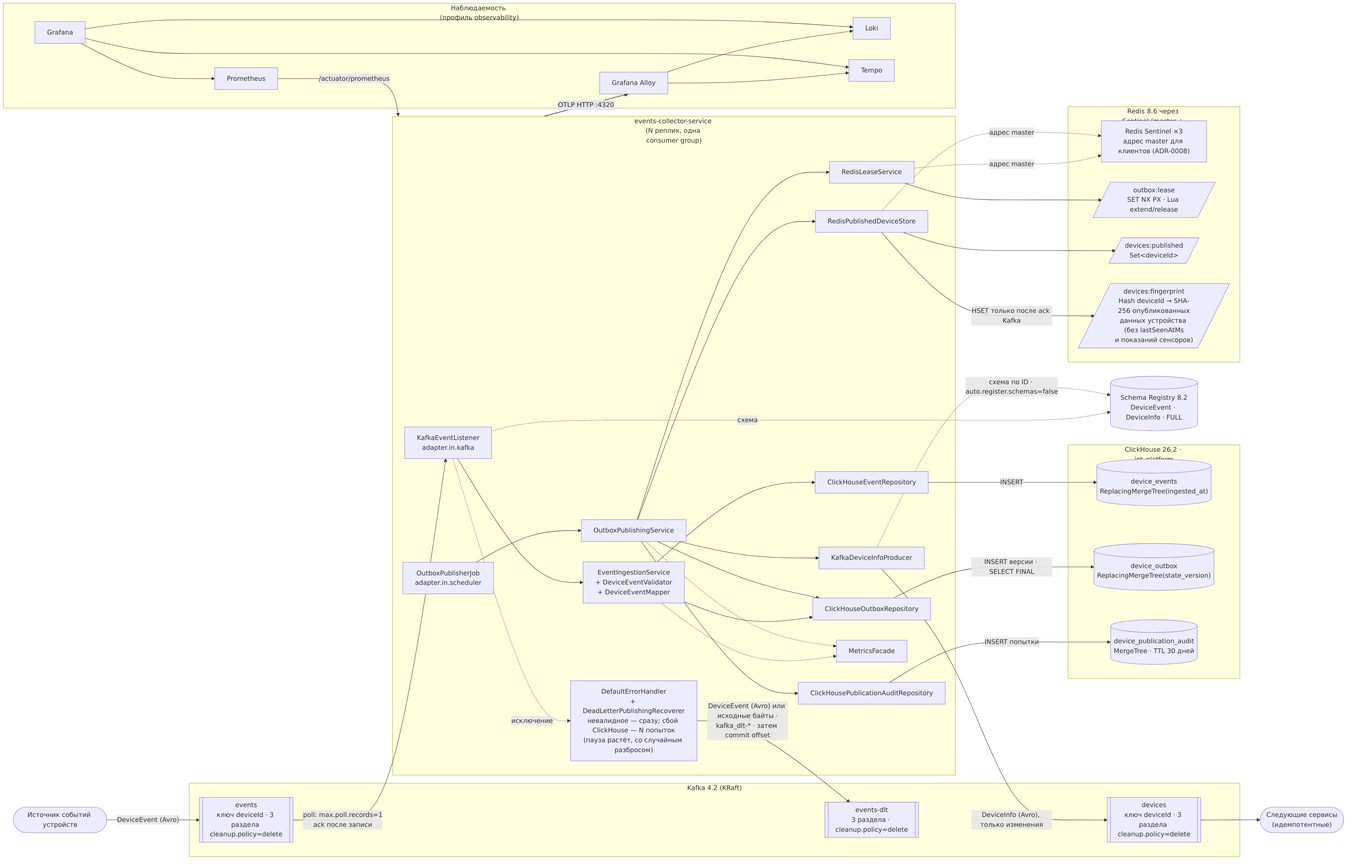
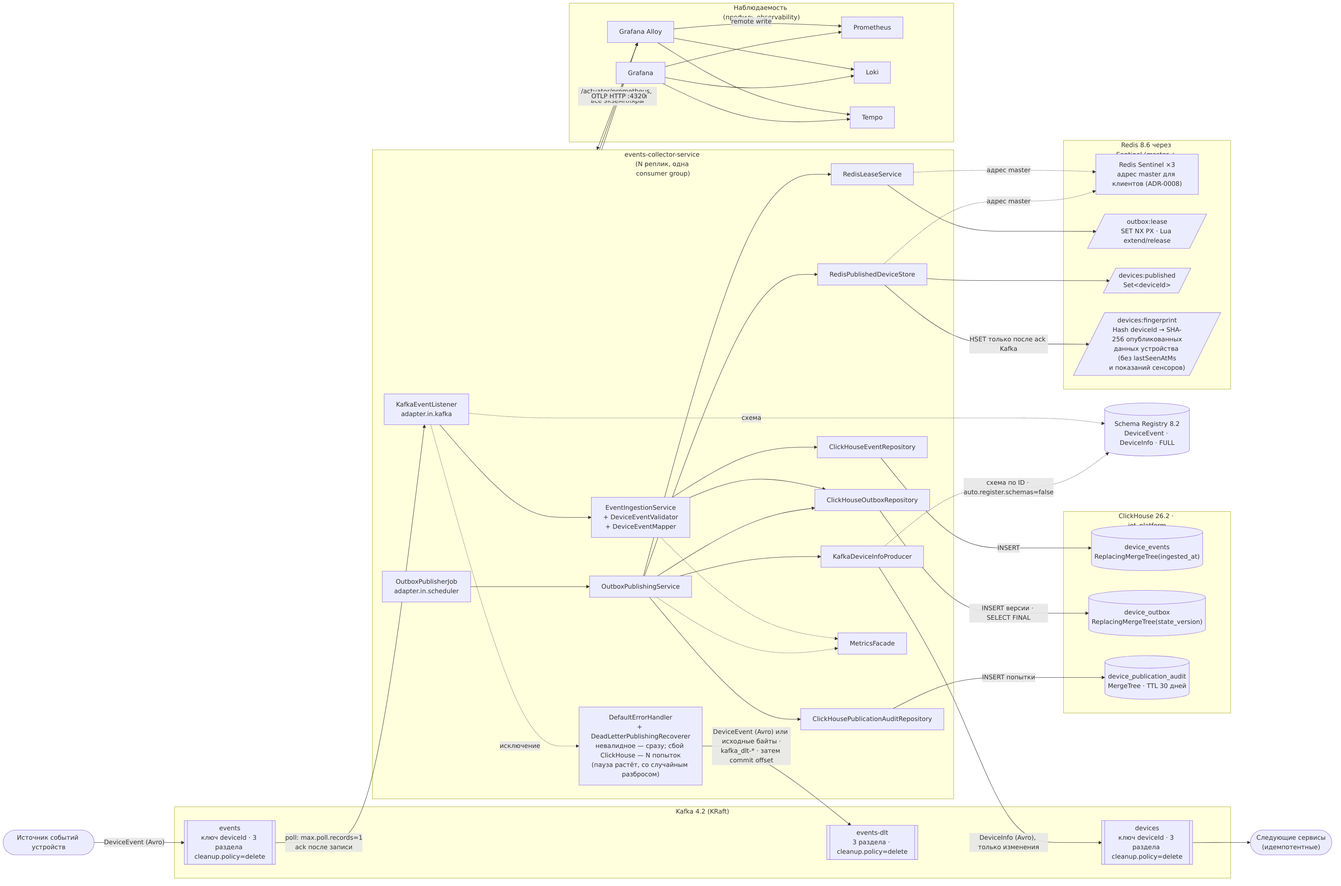
Наблюдаемость: метрики сервисов платформы собирает Alloy
- Alloy находит экземпляры events-collector-service, device-collector-service и device-service через DNS Docker,
  опрашивает /actuator/prometheus и передаёт метрики в Prometheus по remote write (ADR-0012)
- метки job и instance прежние, переименование outbox_candidate_total перенесено в правила Alloy,
  порт device-service берётся из DEVICE_SERVICE_MANAGEMENT_PORT
- Prometheus принимает remote write, задания трёх сервисов из prometheus.yml удалены,
  Alloy стартует после Prometheus
- диаграммы containers и компонентные перерисованы; README и DoD: путь метрик, где смотреть состояние сбора
- R17 проверено на стенде: up каждого экземпляра равен 1, запросы панелей без ошибок; Phase 16 в tasks.md закрыта

Changed region(s): [[0.0, 0.0, 0.9955, 0.9974], [0.4044, 0.561, 0.5288, 0.7169], [0.5288, 0.4675, 0.56, 0.4987]]

diff --git a/specs/001-device-service/research.md b/specs/001-device-service/research.md
@@ -23,7 +23,7 @@
 | R14 | Узел Redis при старте узнаёт роль у Sentinel (скрипт запуска), а не из командной строки: иначе перезапуск узла, ставшего основным, даёт ~36 с недоступности, а пересоздание контейнеров может потерять записи | Предположение: проблема наблюдалась на прототипе, решение не проверялось | T020 | роль в командной строке + правило эксплуатации: после переключения узлы Redis не пересоздавать |
 | R15 | Keycloak 26 по HTTP: `"sslRequired": "none"` в файле realm выключает требование HTTPS у `iot-platform`; у `master` и у realm, которые создают тесты, — тесты сами: `kcadm.sh update realms/master -s sslRequired=NONE` внутри контейнера (`execInContainer`, по `localhost` HTTPS не нужен) и поле `sslRequired` при создании realm. Причина ошибки ревью: `external` пропускает HTTP только с loopback и частных IPv4, а адрес, с которого Docker доставляет запрос с хоста в контейнер, от проекта не зависит — Docker Desktop со стеком `gvisor` может подставить публичный адрес ([docker/desktop-feedback#133](https://github.com/docker/desktop-feedback/issues/133)), VPN (100.64.0.0/10) и IPv6 ULA тоже не считаются частными ([keycloak#30678](https://github.com/keycloak/keycloak/issues/30678)) | Проверено 2026-11-19: Keycloak 26.0.8 на VPS — `kcadm` переводит `master` из `external` в `none`, значение переживает перезапуск; импорт своего `master-realm.json` заменяет master и ломает вход администратора (`Account is not fully set up`) — не годится; переменной сервера для `sslRequired` нет (`--help-all`); запрос из сети 100.64.77.0/24 — `403 HTTPS required`, как в ревью. На Mac (Docker Desktop 4.37.2, `gvisor`) 9 запросов с хоста пришли с `172.19.0.1` (шлюз сети) — `401`, ошибка там не воспроизводится. Тесты с правкой (T122): интеграционный тест читает `sslRequired` у `iot-platform`, `master` и созданного realm через Admin API — на прежнем коде падал (`external`), с правкой проходит (VPS, ItSecurityTest 13 тестов) | T122 | административный токен внутри контейнера (`kcadm.sh` / `curl` через `execInContainer`), тестовые пользователи и клиенты — в отдельном файле realm для тестов |
 | R16 | Раздел `devices`, появившийся у работающей группы (`auto-offset-reset: none`), можно начать читать с начала без перезапуска: обработчик ошибок контейнера Spring Kafka получает `NoOffsetForPartitionException` в потоке потребителя и вызывает `seekToBeginning` для разделов без смещения; `OffsetOutOfRangeException` по-прежнему останавливает обработчик. Новый раздел потребитель замечает при обновлении метаданных (`metadata.max.age.ms`, по умолчанию 5 мин) — срок задаётся переменной окружения | Не подтвердилось (2026-11-19, Spring Kafka 4.0.3, интеграционный тест на Testcontainers): `NoOffsetForPartitionException` приходит не в обработчик ошибок, а из `onPartitionsAssigned` — адаптер `@KafkaListener` (`MessagingMessageListenerAdapter`) реализует `ConsumerSeekAware`, поэтому Spring вызывает `consumer.position()` раньше нашего кода; контейнер считает ошибку фатальной («No offset and no reset policy») и останавливается (`ConsumerStoppedEvent`, причина `NO_OFFSET`), до обработчика ошибок она не доходит. Запасной вариант (перезапуск контейнера и Admin при старте) с одним экземпляром работает; на двух не сходится: Admin меняет смещения только у пустой группы и даёт `UnknownMemberIdException`, пока в ней есть другой участник, обработчик крутится в цикле перезапусков (3 минуты без результата). Заменён механизмом R18 | T127 | ограничение «один экземпляр» с перезапуском контейнера при `NO_OFFSET` и Admin при старте — не принято: при нескольких экземплярах не сходится |
-| R17 | Alloy (`discovery.*` → `prometheus.scrape` → `prometheus.remote_write`) передаёт в Prometheus метрики сервисов с прежними метками `job`/`instance` и рядом `up`; Prometheus принимает их с `--web.enable-remote-write-receiver`; запросы всех панелей Grafana возвращают данные без правок | Предположение | T135 | метки задать правилами `discovery.relabel`; при несовпадении — поправить запросы панелей отдельной задачей |
+| R17 | Alloy (`discovery.*` → `prometheus.scrape` → `prometheus.remote_write`) передаёт в Prometheus метрики сервисов с прежними метками `job`/`instance` и рядом `up`; Prometheus принимает их с `--web.enable-remote-write-receiver`; запросы всех панелей Grafana возвращают данные без правок | Проверено 2026-11-19 (T135, T137; стенд Mac, `PROFILES=observability`, Alloy v1.4.2, Prometheus v2.54.1 с `--web.enable-remote-write-receiver`): `up{job}` = 1 у каждого экземпляра (events-collector-service ×1, device-collector-service ×1, device-service ×2, порт 8081), метки `job`/`instance` прежние, `outbox_candidate_created_total` есть, `outbox_candidate_total` нет; в Targets и конфигурации Prometheus этих заданий нет; запросы панелей events-collector, device-collector, device-service — 0 ошибок, данные есть (пустые только панели без событий: 5xx/401/403 и окно 1 мин после паузы нагрузки; ряды самих метрик есть). Грабли: `sys.env` отдаёт строку, а `port` у `discovery.dns` — число (`encoding.from_json(sys.env(...))`); `scrape_timeout` по умолчанию 10 с больше интервала 5 с — задан 5 с. Проверка сделана сразу на рабочей конфигурации, а не на прототипе | T135 | метки задать правилами `discovery.relabel`; при несовпадении — поправить запросы панелей отдельной задачей |
 | R18 | Раздел без смещения у работающей группы читается с начала без перезапуска при любом числе экземпляров: `DefaultKafkaConsumerFactory.addPostProcessor(ConsumerPostProcessor)` отдаёт Spring обёртку `Consumer` (`java.lang.reflect.Proxy`), которая перехватывает только `position(...)` и `poll(...)`: `NoOffsetForPartitionException` → `seekToBeginning(e.partitions())` и один повтор вызова. Это выполняется в потоке потребителя для его разделов, поэтому другие участники группы не мешают. `OffsetOutOfRangeException` не перехватывается: обработчик по-прежнему останавливается, health `DOWN`. Новый раздел потребитель замечает при обновлении метаданных (`metadata.max.age.ms`, `DEVICES_CONSUMER_METADATA_MAX_AGE_MS`) | Проверено 2026-11-19 (T127, T128; Spring Kafka 4.0.3, Testcontainers): обёртка принята Spring и клиентом; один экземпляр — новый раздел применён за ~2 с, остановок `NO_OFFSET` нет, health `UP`; два экземпляра в одной группе — применён за ~6 с, оба обработчика работают, health `UP`, три прогона подряд зелёные; смещение вне диапазона по-прежнему останавливает обработчик, health `DOWN` | T127 | ограничение «один экземпляр» с прежним перезапуском (R16): при нескольких экземплярах сначала остановить все |
 
 ## Результаты проверок на стенде

diff --git a/README.md b/README.md
@@ -539,7 +539,7 @@ docker compose -f infrastructure/docker-compose.yaml up -d --scale events-collec
   `docker compose -f infrastructure/docker-compose.yaml up -d --scale device-collector-service=2 device-collector-service`.
 
 У обоих сервисов нет `container_name` и фиксированного хост-порта (диапазоны `EVENTS_COLLECTOR_PORTS` и
-`DEVICE_COLLECTOR_PORTS`), Prometheus находит реплики через DNS (`dns_sd_configs`), `instanceId` по умолчанию —
+`DEVICE_COLLECTOR_PORTS`), Alloy находит реплики через DNS Docker (`discovery.dns`) и собирает их метрики (раздел 16), `instanceId` по умолчанию —
 hostname контейнера.
 У остальных контейнеров стенда имена фиксированные (`iot-kafka`, `iot-clickhouse`, …).
 
@@ -761,7 +761,8 @@ Avro-классы приходят из `avros` и в отчёт не входя
 | Health | http://localhost:&lt;порт&gt;/actuator/health |
 | Метрики | http://localhost:&lt;порт&gt;/actuator/prometheus |
 | Grafana | http://localhost:3000 → папка «IoT Platform»: «events-collector-service», «device-collector-service», «device-service», «Proxy и шарды реестра устройств», «Kafka», «PostgreSQL» (платформенный) |
-| Prometheus | http://localhost:9090 → Status → Targets: jobs `events-collector-service`, `device-collector-service`, `device-service`, `shardingsphere-proxy`, `postgres-shards` (шарды и их реплики), `kafka` |
+| Prometheus | http://localhost:9090 → Status → Targets: jobs `shardingsphere-proxy`, `postgres-shards` (шарды и их реплики), `kafka` |
+| Alloy | http://localhost:12345 (`ALLOY_PORT`) → Graph / компоненты `prometheus.scrape.*`: состояние сбора метрик трёх сервисов (по экземплярам: health и последняя ошибка). Ряд `up{job="events-collector-service"\|"device-collector-service"\|"device-service"}` в Prometheus формирует Alloy; страница Targets этих заданий не показывает |
 | Loki | Grafana → Explore → Loki: `{service="events-collector-service"} \| json`, `{service="device-collector-service", shard="shard_0"} \| json` |
 | Tempo | Grafana → Explore → Tempo: `{name="events process"}` (приём), `{name="publish devices"}` (публикация), `{name="devices process"}` (device-collector-service) |
 | Kafka UI | http://localhost:8090 (профиль `tools`): темы, сообщения Avro как JSON, лаг consumer group, схемы |
@@ -782,9 +783,17 @@ Avro-классы приходят из `avros` и в отчёт не входя
 > **Про `outbox_candidate_created_total`.** Spring Boot 4 использует Prometheus Java client 1.x, который
 > запрещает имена метрик с суффиксом `_created` (он зарезервирован в OpenMetrics под время создания
 > счётчика). Поэтому `/actuator/prometheus` отдаёт этот счётчик как `outbox_candidate_total`, а требуемое
-> имя `outbox_candidate_created_total` восстанавливает `metric_relabel_configs` в
-> `infrastructure/config/prometheus/prometheus.yml`. В Prometheus и Grafana метрика называется так, как
+> имя `outbox_candidate_created_total` восстанавливает правило `prometheus.relabel` в
+> `infrastructure/config/alloy/config.alloy`. В Prometheus и Grafana метрика называется так, как
 > требует задание. Остальные шесть имён совпадают уже в `/actuator/prometheus` (проверяет `MetricsFacadeTest`).
+
+**Путь метрик сервисов платформы (ADR-0012).** events-collector-service, device-collector-service и device-service (все
+экземпляры) собирает Alloy: находит экземпляры через DNS Docker, опрашивает `/actuator/prometheus` каждые 5 с и передаёт
+метрики в Prometheus по remote write (Prometheus запущен с `--web.enable-remote-write-receiver`, Alloy стартует после него).
+Метки прежние: `job` — имя сервиса, `instance` — адрес экземпляра; запросы панелей не менялись. Экспортёры, Proxy,
+Keycloak, MinIO и компоненты наблюдаемости Prometheus по-прежнему опрашивает сам. Alloy остановлен — пропадают метрики
+сервисов, логи и трассы; новых переменных нет (`DEVICE_SERVICE_MANAGEMENT_PORT` и `ALLOY_PORT` уже были; первая теперь
+передаётся и Alloy).
 
 **Метрики device-collector-service** (`/actuator/prometheus`, job `device-collector-service`): сообщения —
 `devices_messages_received_total`, `devices_messages_processed_total` (метка `outcome`: применено, устаревшее),
@@ -793,8 +802,8 @@ Avro-классы приходят из `avros` и в отчёт не входя
 `shard`; ошибки — `devices_processing_errors_total`, `devices_shard_route_fail_total`; а также стандартные JVM,
 HikariCP (`sharding-proxy`) и лаг consumer group из kafka-exporter.
 
-**Метрики device-service** (job `device-service`, конфигурация — `infrastructure/config/prometheus/prometheus.yml`, дашборд «IoT Platform — device-service» — `infrastructure/config/grafana/dashboards/device-service.json`):
-Prometheus забирает management-порт 8081 внутри сети Compose (`DEVICE_SERVICE_MANAGEMENT_PORT`); порт на хост не публикуется,
+**Метрики device-service** (job `device-service`, сбор — `infrastructure/config/alloy/config.alloy`, дашборд «IoT Platform — device-service» — `infrastructure/config/grafana/dashboards/device-service.json`):
+Alloy забирает management-порт 8081 внутри сети Compose (`DEVICE_SERVICE_MANAGEMENT_PORT`, передаётся в Alloy через `sys.env`); порт на хост не публикуется,
 а основной порт не отдаёт `/actuator` (раздел 22.1). Метрики: `device_commands_*` (команды: принято, отклонено, время публикации в Kafka)
 и `device_cache_*` (исходы чтения, доля попаданий), HTTP-метрики Spring; в метках нет `deviceId`.
 
@@ -1281,7 +1290,7 @@ curl -s -i -X DELETE "$API/dev-42" -H "Authorization: Bearer $TOKEN"
 | Переменные | Назначение | Где описано |
 |---|---|---|
 | `DEVICE_SERVICE_IMAGE_TAG`, `DEVICE_SERVICE_PORTS` | тег образа; диапазон портов хоста (два экземпляра) | `.env.example`; plan.md, «Переменные окружения» |
-| `DEVICE_SERVICE_MANAGEMENT_PORT` | management-порт (health, prometheus), не публикуется | `.env.example`; литерал в `infrastructure/config/prometheus/prometheus.yml` |
+| `DEVICE_SERVICE_MANAGEMENT_PORT` | management-порт (health, prometheus), не публикуется | `.env.example`; `infrastructure/config/alloy/config.alloy` (`sys.env`), healthcheck |
 | `DEVICE_COMMAND_SEND_TIMEOUT` | ожидание подтверждения Kafka при записи | `.env.example`; раздел 22.3 |
 | `SCHEMA_REGISTRY_HTTP_CONNECT_TIMEOUT_MS`, `SCHEMA_REGISTRY_HTTP_READ_TIMEOUT_MS`, `SCHEMA_REGISTRY_MAX_RETRIES` | клиент Schema Registry в device-service: соединение и чтение (мс), повторы (`1000`, `2000`, `0`) | `.env.example`; инвариант ниже |
 | `DEVICE_CACHE_TTL` | срок кэша карточки устройства в device-service | `.env.example`; раздел 19.3 |
@@ -1349,7 +1358,7 @@ curl -s -i -X DELETE "$API/dev-42" -H "Authorization: Bearer $TOKEN"
 | команда не видна в `GET` долго | `make logs S=device-collector-service`; `make dcs-quick-check` |
 | контейнер не `healthy` | `make logs S=device-service`; healthcheck — liveness на management-порту |
 
-Метрики: `device_commands_*` и `device_cache_*` (без `deviceId` в метках) — job `device-service` в Prometheus и дашборд «IoT Platform — device-service» (`infrastructure/config/grafana/dashboards/device-service.json`).
+Метрики: `device_commands_*` и `device_cache_*` (без `deviceId` в метках) — job `device-service` (собирает Alloy, ADR-0012) в Prometheus и дашборд «IoT Platform — device-service» (`infrastructure/config/grafana/dashboards/device-service.json`).
 
 Окружение платформы (C4, Postgres/Camunda/MinIO) описано в истории Git и в профиле `platform`.
 

diff --git a/specs/001-device-service/tasks.md b/specs/001-device-service/tasks.md
@@ -441,7 +441,7 @@ unit 87 / IT 42 (`check` с порогом покрытия), `make up`, `check-
 Текущий статус: Phase 15 — **Converged** (2026-11-19, проход 7); Phase 16 (метрики через Alloy) открыта, `converge` по ней — T140.
 До ревью реализации: **Converged** (2026-11-18, проход 6 после Phase 13 и Phase 14).
 Проходы 1–3 (2026-11-15/16) закончились `Converged`; статус снят ревью дизайна (17.11.2026) и проверкой реализации (18.11.2026).
-Статус снова снят ревью реализации (PR #5, 19.11.2026): открыты Phase 15 и Phase 16. Phase 15 закрыта проходом 7 (19.11.2026); открыта Phase 16 (метрики через Alloy).
+Статус снова снят ревью реализации (PR #5, 19.11.2026): открыты Phase 15 и Phase 16. Phase 15 закрыта проходом 7, Phase 16 (метрики через Alloy) — проходом 8 (19.11.2026).
 
 | Проход | Находки | Итог |
 |---|---|---|
@@ -452,6 +452,7 @@ unit 87 / IT 42 (`check` с порогом покрытия), `make up`, `check-
 | 5 | 3 аудита: 4 принятые находки (Phase 14, T116–T119: ADR-0006 о проверке `deviceId` коллектором, тестовый профиль, худший случай 503, формулировки исключения), 10 отклонено с причиной | исправлено |
 | 6 | проверка правок Phase 14 по коду и документам, `ItSchemaRegistryDownTest` на новом тестовом профиле | новых расхождений нет |
 | 7 | после Phase 15 (T122–T133), по изменённым местам: шесть замечаний ревью (SSL realm, ключи кэша, `null` в картах, раздел без перезапуска, предварительная проверка по кэшу; метрики через Alloy — Phase 16) сверены с кодом, тестами и документами; `grep` старых утверждений (`device:v1` в коде и действующих документах, «только по реплике», «без кэша», `LISTENER_RESTART`) пуст; новая переменная `DEVICES_CONSUMER_METADATA_MAX_AGE_MS` — в `.env.example`, Compose, `application.yaml`, `application-local.yaml`, `application-test.yaml`, README (разделы 19.3, 22.4), `plan.md`; в README и DoD обновлены числа тестов (найдено при проходе); аудиторы не привлекались | расхождений кроме чисел тестов нет; R16 не подтвердилось, принят R18 (решение человека, 19.11.2026) |
+| 8 | после Phase 16 (T135–T139), по изменённым местам: `grep` старых утверждений («Prometheus забирает/находит», `dns_sd_configs`, литерал порта в `prometheus.yml`) в README, DoD, диаграммах пуст; Alloy — все 8 компонентов сбора `healthy`; три задания удалены из `prometheus.yml`; панели и `up` — R17; аудиторы не привлекались | расхождений нет |
 
 Решения человека, зафиксированные при converge: 405/406/415 и неизвестный путь отдаются с кодом `VALIDATION_FAILED` (README 22.8, контракт не менялся);
 событие роутера `DELETE` без снимка для управляемого устройства — `IGNORED` (FR-015, строка 12); порог покрытия events-collector-service — 70 %;
@@ -636,25 +637,25 @@ Alloy — Phase 16, отдельным коммитом. Тест пишется
 events-collector-service, device-collector-service, device-service (все экземпляры). Экспортёры и сторонние
 компоненты Prometheus опрашивает сам, как раньше.
 
-- [ ] T135 (R17) Проверить на стенде с `PROFILES=observability` до переноса: Alloy (`prometheus.scrape` →
+- [X] T135 (R17) Проверить на стенде с `PROFILES=observability` до переноса: Alloy (`prometheus.scrape` →
   `prometheus.remote_write`) передаёт метрики одного сервиса в Prometheus с `--web.enable-remote-write-receiver`, метки
   `job`/`instance` и ряд `up` совпадают с прежними. Не подтвердилось — остановиться, запасной вариант из research.md
   (FR-023)
-- [ ] T136 Alloy: обнаружение экземпляров трёх сервисов, сбор `/actuator/prometheus` (у device-service — порт из
+- [X] T136 Alloy: обнаружение экземпляров трёх сервисов, сбор `/actuator/prometheus` (у device-service — порт из
   `DEVICE_SERVICE_MANAGEMENT_PORT` через `sys.env`; у events-collector-service и device-collector-service — порт
   контейнера 8080, как прежде в `prometheus.yml`), метки `job` = имя сервиса, переименование `outbox_candidate_total` →
   `outbox_candidate_created_total`, `prometheus.remote_write` в Prometheus; Prometheus — приём remote write, задания трёх
   сервисов из `prometheus.yml` удалить; Alloy стартует после Prometheus, переменные портов передаются в Alloy —
   `INF/config/alloy/config.alloy`, `INF/config/prometheus/prometheus.yml`, `INF/docker-compose.yaml`, `.env.example` (FR-023)
-- [ ] T137 Проверка на стенде с `PROFILES=observability`: `up{job=…}` = 1 для каждого экземпляра трёх сервисов (у
+- [X] T137 Проверка на стенде с `PROFILES=observability`: `up{job=…}` = 1 для каждого экземпляра трёх сервисов (у
   device-service — два), в `prometheus.yml` их заданий нет, все запросы панелей events-collector, device-collector,
   device-service возвращают данные; результат — research.md R17 (FR-023)
-- [ ] T138 Диаграммы: `containers.mmd` (метрики сервисов: Alloy → `/actuator/prometheus`, Alloy → Prometheus remote write),
+- [X] T138 Диаграммы: `containers.mmd` (метрики сервисов: Alloy → `/actuator/prometheus`, Alloy → Prometheus remote write),
   компонентные `component-events-collector`, `component-device-collector`, `component-device-service`; перерендерить PNG —
   `diagrams/*.{mmd,png}` (FR-023)
-- [ ] T139 README и DoD: путь метрик сервисов, где смотреть состояние сбора (интерфейс Alloy), новые переменные —
+- [X] T139 README и DoD: путь метрик сервисов, где смотреть состояние сбора (интерфейс Alloy), новые переменные —
   `README.md`, `docs/definition-of-done.md` (FR-023)
-- [ ] T140 `converge` повторно до `Converged`; результат — в раздел «Результат converge»
+- [X] T140 `converge` повторно до `Converged`; результат — в раздел «Результат converge»
 
 **Checkpoint**: `make check`; стенд `make up PROFILES=observability` — проверки T137; `make check-local`,
 `make dcs-quick-check`, `make ds-quick-check` — код 0.

diff --git a/docs/definition-of-done.md b/docs/definition-of-done.md
@@ -289,10 +289,12 @@ device-collector-service, проект avros и изменения в приём
 ## Наблюдаемость
 
 - [ ] Метрики со всех компонентов: оба сервиса и device-service (`/actuator/prometheus`, jobs `events-collector-service`,
-  `device-collector-service`, `device-service` — management-порт 8081 внутри сети Compose, на хост не публикуется), ShardingSphere-Proxy (агент метрик из образа 5.5.3, `PROXY_AGENT_ENABLED=true`, job
+  `device-collector-service`, `device-service` — management-порт 8081 внутри сети Compose, на хост не публикуется);
+  их собирает Alloy (все экземпляры, DNS Docker) и передаёт в Prometheus по remote write, заданий этих сервисов в
+  `prometheus.yml` нет, состояние сбора — в интерфейсе Alloy (ADR-0012), `up` каждого экземпляра равен 1; ShardingSphere-Proxy (агент метрик из образа 5.5.3, `PROXY_AGENT_ENABLED=true`, job
   `shardingsphere-proxy`), шарды PostgreSQL и их реплики (`postgres-exporter` v0.20.1 на каждый, job `postgres-shards`;
   отставание реплики - `pg_replication_lag_seconds`, `pg_stat_replication_pg_wal_lsn_diff`), Kafka (job `kafka`).
-  Все цели профиля `observability` в Prometheus (`/targets`) — `UP`; `minio`, `keycloak`, `postgres` относятся к профилю
+  Все цели профиля `observability`, которые опрашивает Prometheus (`/targets`), — `UP`; `minio`, `keycloak`, `postgres` относятся к профилю
   `platform`.
 - [ ] Дашборды в Grafana: «events-collector-service», «device-collector-service», «device-service» (`device-service.json`), «Proxy и шарды реестра устройств»
   (`device-shards`), «Kafka» — панели получают данные (все запросы дашбордов возвращают ряды при нагрузке).
